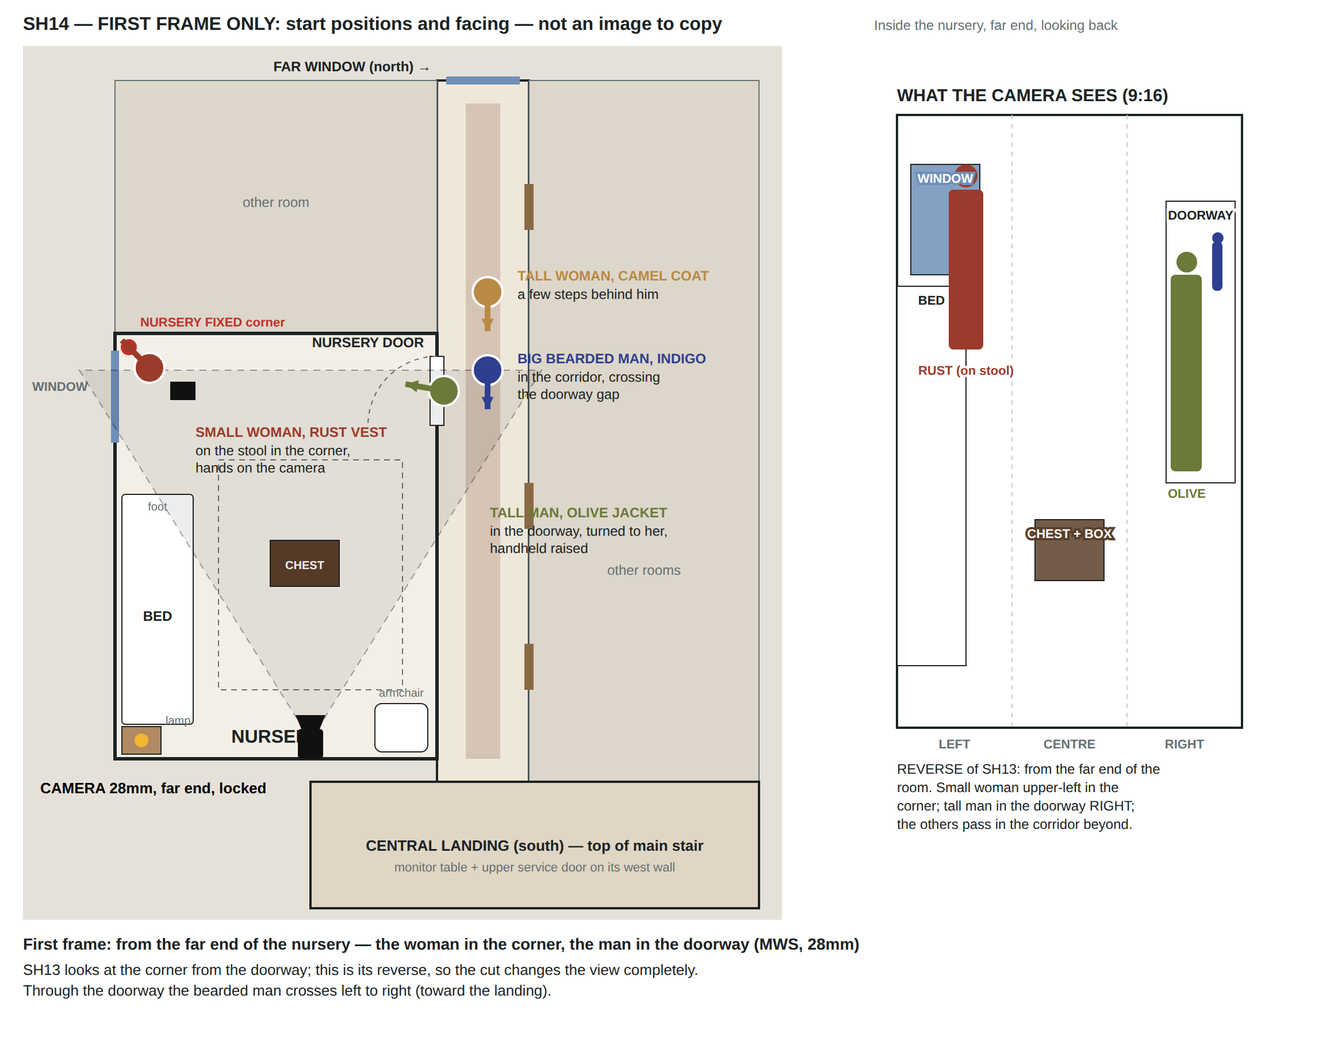
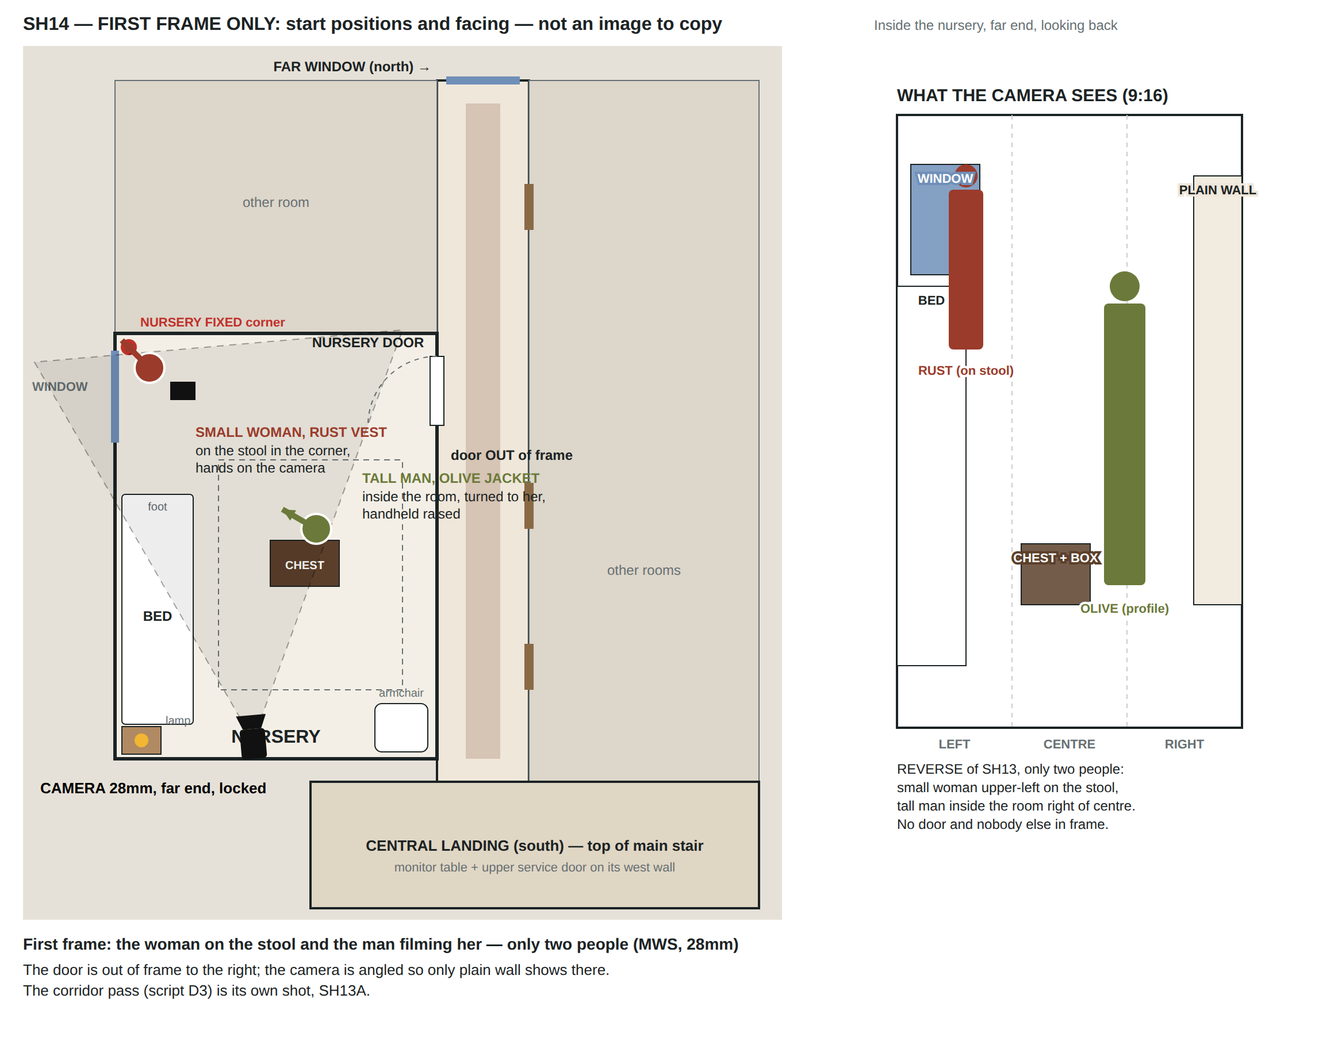
Split SH14: corridor pass becomes SH13A, SH14 keeps two people, no door
The image model could not stage four people plus a doorway on the right
wall. It invented its own door frame on the wrong wall, with the
passers-by standing in it.

- New SH13A (script D3): the approved reverse corridor view, the bearded
  man walking past the open door with the bell-board camera and pouch,
  the woman with locs behind him, nobody in the doorway.
- SH14 (D4–D5): only the small woman on the stool and the tall man
  inside the room. The camera is angled so the door stays out of frame,
  and a stay line forbids any door or other person.
- The test scope is now by shot number (SH01–SH20 including lettered
  inserts), not array position.
- Maps: new SH13A; SH14 redrawn; corridor location map and sheet lists
  updated.

Claude-Session: https://claude.ai/code/session_01MJ23cbnzmfztqsRaFx1Dvm

diff --git a/src/data/shots.ts b/src/data/shots.ts
@@ -153,8 +153,13 @@ export const q = (beatId: string) => {
 const sheet = (id: CharId, job = 'identity: face, hair, build and full wardrobe'): Upload => ({ file: CHARACTERS[id].sheetFile, job });
 const bg = (id: CharId) => sheet(id, 'identity of a smaller background figure');
 const up = (file: string, job: string): Upload => ({ file, job });
+/** Shot number without any letter suffix: 'SH13A' → 13. */
+export const shotNum = (id: string) => parseInt(id.slice(2), 10);
+/** The test scope: SH01–SH20, including inserted lettered shots such as SH13A. */
+export const inTestScope = (id: string) => shotNum(id) <= 20;
+
 const mapUp = (id: string): Upload =>
-  Number(id.slice(2)) >= 8
+  shotNum(id) >= 8
     ? up(`MAP_${id}.png`, 'FIRST FRAME ONLY: where the camera stands and looks, where each person stands at this exact moment and which way they face, and where things land in the frame. It shows no movement. It is a diagram — do NOT draw it, no arrows, circles or labels in the image')
     : up(`MAP_${id}.png`, 'BLOCKING ONLY: where the camera stands and looks, where each person stands, which way they face and move, and where things land in the frame. It is a diagram — do NOT draw it, no arrows, circles or labels in the image');
 const LINEUP_BG = up('CH_LINEUP.png', 'identities of the small background figures and everyone’s relative heights');
@@ -759,10 +764,50 @@ export const SHOTS: Shot[] = [
     note: 'Operator is established in SH12 (Elias follows her in raising the handheld).',
   },
   {
+    id: 'SH13A',
+    section: 'D',
+    covers: ['D3'],
+    title: 'Corridor: Owen walks past the open nursery door with BELL BOARD FIXED and his pouch; Naomi crosses behind him with her recorder.',
+    cam: 'cinematic',
+    location: 'LOC_CORRIDOR_REV_DAY.png',
+    time: 'day',
+    lens: '35mm',
+    size: 'MWS',
+    setup: 'COR-REV2 past the door, looking back to the landing',
+    heading: 180,
+    blocking:
+      'Plate framing (the approved reverse corridor view): camera in the corridor a few metres past the nursery door, looking back toward the landing; the open nursery door on the RIGHT wall ahead. The huge bearded man walks AWAY from the camera down the middle of the corridor, just reaching the open door on his right, framed from the knees up, his back to us. A few steps behind him, nearer the camera and to the left, the very tall woman with locs walks the same way, looking down at the recorder in her hands. Nobody is in the doorway; the room beyond it is not visible from here.',
+    states: [{ thing: 'nurseryDoor', start: 'ALREADY WIDE OPEN' }, { thing: 'bellCam', start: 'IN HIS RIGHT HAND', between: 'the bearded man took it out of his case at the far end of the corridor' }],
+    people: [
+      { id: 'owen', view: 'back', where: 'centre of the corridor, midground, just reaching the open door on the right wall, walking away from the camera', doing: 'walking steadily toward the landing, not turning his head', hands: 'compact black camera in his right hand, held out slightly so it shows beside his right hip; canvas tool pouch in his left hand, visible' },
+      { id: 'naomi', view: 'back34', where: 'a few steps behind him, nearer the camera, left of centre', doing: 'walking the same way, head bowed to her recorder', hands: 'silver cassette recorder held in both hands in front of her, its edge visible beside her body' },
+    ],
+    check: ['Same corridor view as the approved reverse plate: open door on the RIGHT wall, landing at the far end', 'Both walk AWAY from the camera; nobody stands in the doorway', 'His compact camera and pouch are visible from behind'],
+    map: '/maps/SH13A_map.png',
+    kf: {
+      mode: 'generate',
+      uploads: [up('LOC_CORRIDOR_REV_DAY.png', 'the corridor, the open nursery door on the right and the light — keep exactly'), sheet('owen'), sheet('naomi'), mapUp('SH13A')],
+      frame: 'Working, unhurried, nobody posing.',
+      saveAs: 'KF_SH13A.png',
+    },
+    video: {
+      camera: 'Static camera.',
+      setting: 'Bright upper corridor, daytime.',
+      beats: [
+        { t: [0, 3], text: `${Cap('owen')} walks on past the open nursery door toward the landing without turning his head; ${D('naomi')} crosses the corridor behind him, eyes on her recorder.` },
+      ],
+      stays: [STAY_PEOPLE, STAY_CORRIDOR, 'Nobody enters or stands in the doorway.'],
+    },
+    order: 3,
+    edit: 2,
+    sound: 'off',
+    audio: 'Footsteps on the runner, a soft recorder click.',
+  },
+  {
     id: 'SH14',
     section: 'D',
-    covers: ['D3', 'D4', 'D5'],
-    title: 'Reverse from inside the nursery: Owen passes the doorway with BELL BOARD FIXED and his pouch, Naomi behind. ELIAS: “Very polite house so far.” MARA: “You’ve been here twenty minutes.”',
+    covers: ['D4', 'D5'],
+    title: 'Inside the nursery: ELIAS: “Very polite house so far.” MARA: “You’ve been here twenty minutes.”',
     cam: 'tripod',
     location: 'LOC_NURSERY_FIXED_DAY.png',
     time: 'day',
@@ -771,34 +816,31 @@ export const SHOTS: Shot[] = [
     setup: 'NUR-FAR far end of the nursery, looking back',
     heading: 0,
     blocking:
-      'The REVERSE of SH13, from inside the nursery: camera at eye level at the far end of the room, looking back toward the window corner and the door. The white iron bed runs along the LEFT wall toward the window at its far end; high in the corner above the window, upper left, the small woman in rust on a step stool tightening the compact camera onto its bracket, the black monitor case on the floor below her. The open white door is in the RIGHT-hand wall near the far end; the tall man in olive stands in the doorway, turned toward her, his handheld raised on her. Through the doorway behind him, the corridor: the huge bearded man passing across the gap, a few steps behind him the very tall woman with locs. The chest with the grey box on the rug in the middle of the room.',
-    states: [{ thing: 'nurseryDoor', start: 'ALREADY WIDE OPEN' }, { thing: 'nurseryCam', start: 'ON ITS WALL BRACKET, BEING TIGHTENED' }, { thing: 'monitorCase', start: 'ON THE FLOOR BESIDE THE STOOL' }, { thing: 'bellCam', start: 'IN HIS RIGHT HAND', between: 'the bearded man took it out of his case at the far end of the corridor' }],
+      'The REVERSE of SH13, from inside the nursery: camera at eye level at the far end of the room, looking back toward the window corner. Only two people. The white iron bed runs along the LEFT wall toward the window at its far end; high in the corner above the window, upper left, the small woman in rust on a step stool tightening the compact camera onto its bracket, the black monitor case on the floor below her. The tall man in olive stands INSIDE the room, right of centre on the bare floor beside the rug, turned toward her, his handheld raised on her. The chest with the grey box on the rug in the middle. The right edge of the frame is plain wallpaper: no door, no doorway and nobody else in the frame.',
+    states: [{ thing: 'nurseryCam', start: 'ON ITS WALL BRACKET, BEING TIGHTENED' }, { thing: 'monitorCase', start: 'ON THE FLOOR BESIDE THE STOOL' }],
     people: [
       { id: 'mara', view: 'back34', where: 'upper left, on the step stool in the corner above the window', doing: 'arms up, still tightening the compact camera on its bracket', hands: 'both hands on the camera on its bracket, clearly visible' },
-      { id: 'elias', view: 'profileL', where: 'in the open doorway in the right-hand wall, midground', doing: 'turned toward the corner, watching her work', hands: 'handheld camera raised in both hands toward her, visible in profile' },
-      { id: 'owen', view: 'small', where: 'through the doorway, in the corridor behind the tall man, crossing the gap from left to right', doing: 'walking past, eyes ahead down the corridor', hands: 'compact black camera in his right hand, canvas tool pouch in his left' },
-      { id: 'naomi', view: 'small', where: 'through the doorway, in the corridor a few steps behind him', doing: 'walking, looking down at her recorder', hands: 'silver cassette recorder in both hands' },
+      { id: 'elias', view: 'profileL', where: 'inside the room, right of centre, on the bare floor beside the rug, full figure', doing: 'turned toward the corner, watching her work, a small fond grin', hands: 'handheld camera raised in both hands toward her, visible in profile' },
     ],
-    check: ['Reverse of SH13: from the far end of the room looking back at the corner and the door', 'Small woman upper-left on the stool in the corner; bed along the LEFT wall', 'Tall man in the doorway in the RIGHT-hand wall, turned toward her', 'The bearded man and the woman with locs small in the corridor through the doorway'],
+    check: ['Reverse of SH13: from the far end of the room looking back at the window corner', 'ONLY two people: the small woman on the stool upper-left, the tall man inside the room right of centre', 'No door, no doorway, nobody else in the frame', 'Bed along the LEFT wall; chest with the grey box in the middle'],
     map: '/maps/SH14_map.png',
     kf: {
       mode: 'generate',
-      uploads: [up('LOCSHEET_NUR.png', 'the TOP-RIGHT panel (day, view B) is this room from exactly this end — keep the room'), sheet('elias'), sheet('mara'), up('CH_LINEUP.png', 'identities of the bearded man and the woman with locs seen small through the doorway, and everyone’s heights'), mapUp('SH14')],
-      frame: 'Relaxed crew banter while everyone keeps working.',
+      uploads: [up('LOCSHEET_NUR.png', 'the TOP-RIGHT panel (day, view B) is this room from exactly this end — keep the room'), sheet('elias'), sheet('mara'), mapUp('SH14')],
+      frame: 'Relaxed crew banter while both keep working.',
       saveAs: 'KF_SH14.png',
     },
     video: {
       camera: 'Locked tripod inside the nursery.',
-      setting: 'Sunlit nursery, looking back toward the window corner and the open door.',
+      setting: 'Sunlit nursery, looking back toward the window corner.',
       beats: [
-        { t: [0, 2], text: `Through the doorway ${D('owen')} walks past across the gap from left to right with the compact camera and tool pouch, not turning his head; ${D('naomi')} follows a few steps behind, checking her recorder.` },
-        { t: [2, 4], text: `In the doorway ${D('elias')}, watching the woman in the corner work, says lightly and fondly in ${V('elias')}: ${q('D4')}` },
-        { t: [4, 7], text: `Up in the corner, without looking down and still tightening the same mount, ${D('mara')} answers dryly in ${V('mara')}: ${q('D5')}` },
+        { t: [0, 2], text: `${Cap('elias')}, watching the woman in the corner work, says lightly and fondly in ${V('elias')}: ${q('D4')}` },
+        { t: [2, 5], text: `Up in the corner, without looking down and still tightening the same mount, ${D('mara')} answers dryly in ${V('mara')}: ${q('D5')}` },
       ],
-      stays: [STAY_PEOPLE, 'The bearded man never turns his head; nobody stops working.'],
+      stays: [STAY_PEOPLE, 'Only these two people are ever in the room; no door or doorway comes into view.'],
     },
-    order: 7,
-    edit: 3.5,
+    order: 5,
+    edit: 3,
     sound: 'native',
     audio: 'Elias and Mara lines, native then voice-swapped.',
   },

diff --git a/src/lib/qa.ts b/src/lib/qa.ts
@@ -4,7 +4,7 @@
 import { ALL_BEATS, BEAT_BY_ID, BEAT_INDEX, SCRIPT } from '../data/script';
 import { ASSETS } from '../data/assets';
 import { CHARACTERS, NAMES } from '../data/characters';
-import { SHOTS, THINGS, visibleOf, type Shot, type Thing } from '../data/shots';
+import { SHOTS, THINGS, inTestScope, visibleOf, type Shot, type Thing } from '../data/shots';
 import { keyframePrompt, producedFiles, refFor, videoPrompt, womanPrompt } from './prompts';
 
 export type Severity = 'error' | 'warn' | 'info';
@@ -222,7 +222,7 @@ export function runQA(): Finding[] {
     if (!prev || s.matchCut) return;
     if (setupKey(prev.setup) === setupKey(s.setup) && prev.size === s.size) {
       // Test scope is SH01–SH20; later shots are flagged for rework but do not block the build yet.
-      add(i < 20 ? 'error' : 'warn', 'Coverage', `Same setup (${setupKey(s.setup)}) and size (${s.size}) as ${prev.id} — the cut will jump. Change the size or the angle.`, s.id);
+      add(inTestScope(s.id) ? 'error' : 'warn', 'Coverage', `Same setup (${setupKey(s.setup)}) and size (${s.size}) as ${prev.id} — the cut will jump. Change the size or the angle.`, s.id);
     }
     const prev2 = SHOTS[i - 2];
     if (prev2 && prev2.size === prev.size && prev.size === s.size) add('warn', 'Coverage', `Third ${s.size} in a row (${prev2.id}, ${prev.id}, ${s.id})`, s.id);
@@ -236,7 +236,7 @@ export function runQA(): Finding[] {
     if (setupKey(s.setup).split('-')[0] !== setupKey(prev.setup).split('-')[0]) return;
     const d = Math.abs(((s.heading - prev.heading + 540) % 360) - 180);
     if (d < 30)
-      add(i < 20 ? 'error' : 'warn', 'Coverage', `Same view as ${prev.id}: the camera faces the same way (${prev.heading}° → ${s.heading}°) in the same place. Turn it 30°+, put a cutaway between, or make it one continuous shot.`, s.id);
+      add(inTestScope(s.id) ? 'error' : 'warn', 'Coverage', `Same view as ${prev.id}: the camera faces the same way (${prev.heading}° → ${s.heading}°) in the same place. Turn it 30°+, put a cutaway between, or make it one continuous shot.`, s.id);
   });
 
   // 16c. Establish every new location: one of its first two shots must be wide enough to show
@@ -251,7 +251,7 @@ export function runQA(): Finding[] {
   for (const [loc, list] of seenLoc) {
     const first = list.slice(0, 2);
     if (!first.some((s) => ['EWS', 'WS', 'MWS'].includes(s.size))) {
-      const inScope = SHOTS.indexOf(first[0]) < 20;
+      const inScope = inTestScope(first[0].id);
       add(inScope ? 'error' : 'warn', 'Coverage', `Location ${loc} is never established: its first shots (${first.map((s) => `${s.id} ${s.size}`).join(', ')}) are all close. Make one of them WS/MWS.`, first[0].id);
     }
   }
@@ -270,10 +270,10 @@ export function runQA(): Finding[] {
   }
 
   // 16e. Test scope (SH01–SH20): flag uploads that are keyframes of later shots, so they get built first.
-  SHOTS.slice(0, 20).forEach((s) => {
+  SHOTS.filter((x) => inTestScope(x.id)).forEach((s) => {
     const later = s.kf.uploads.map((u) => u.file).filter((f) => {
-      const m = /^KF_(SH\d+)/.exec(f);
-      return m && SHOTS.findIndex((x) => x.id === m[1]) >= 20;
+      const m = /^KF_(SH\d+[A-Z]?)/.exec(f);
+      return m && !inTestScope(m[1]);
     });
     if (later.length) add('warn', 'Build order', `Needs later-shot images first: ${later.join(', ')} (see Build order).`, s.id);
   });

diff --git a/src/data/notes.ts b/src/data/notes.ts
@@ -9,6 +9,11 @@ export interface Note {
 
 export const OLD_PACK_PROBLEMS: Note[] = [
   {
+    title: 'SH14 had too much for one image: four people plus a doorway',
+    body: 'The reverse from inside the nursery asked for the woman on the stool, the man in the doorway and two people passing in the corridor beyond. The image model put the passers-by in a door frame of its own, on the wrong wall.',
+    fix: 'The corridor pass (script D3) is now its own short shot, SH13A: the approved reverse corridor view, the bearded man walking past the open door, the woman with locs behind him, nobody in the doorway. SH14 keeps only D4–D5 with two people, the small woman on the stool and the tall man inside the room, angled so the door stays out of frame. SH13A is lettered, as inserted shots are on set, so nothing after it is renumbered.',
+  },
+  {
     title: 'Consecutive shots repeated the same view',
     body: 'The coverage check compared camera positions and shot sizes but not the direction the camera faces. So SH10 → SH11 (medium then close-up, both straight down the corridor), SH06 → SH07 (both looking at the front door) and SH13 → SH14 (both looking through the doorway at the corner) passed, although each cut showed the same view again.',
     fix: 'Every shot now has a compass heading, and QA fails when consecutive shots in one place face within 30° of each other. SH07 now looks up the stair behind the host (SH06 looks back at the front door). SH11 is a three-quarter single 45° off the corridor axis, with the taller woman soft in the foreground. SH14 is the true reverse of SH13, from the far end of the nursery. SH16 moved to the corridor, square to the doorway, so it does not repeat SH14. Maps and location maps are redrawn to match.',

diff --git a/src/App.tsx b/src/App.tsx
@@ -2,7 +2,7 @@ import { useEffect, useMemo, useState } from 'react';
 import { ALL_BEATS, SCRIPT, SCRIPT_META } from './data/script';
 import { CHARACTERS, CAST, type CharId } from './data/characters';
 import { ASSETS, LOCATION_SHEETS, MAPS } from './data/assets';
-import { SHOTS, compass } from './data/shots';
+import { SHOTS, compass, inTestScope } from './data/shots';
 import { DECISIONS, OLD_PACK_PROBLEMS, PROCESS_NOTE } from './data/notes';
 import { runQA, fmtTime, type Finding } from './lib/qa';
 import { buildOrder, exportMarkdown, linesLost, timeline } from './lib/build';
@@ -102,7 +102,7 @@ export default function App() {
 
 /** Quick visual check: location maps and every shot map, one full-width row each, in cut order. */
 function ShotMaps({ findings }: { findings: Finding[] }) {
-  const scope = SHOTS.slice(0, 20);
+  const scope = SHOTS.filter((s) => inTestScope(s.id));
   const coverage = findings.filter((f) => f.rule === 'Coverage' && scope.some((s) => s.id === f.shot));
   const [view, setView] = useStored<'shots' | 'locations'>('maps-view', 'shots');
   return (

diff --git a/src/data/assets.ts b/src/data/assets.ts
@@ -182,7 +182,7 @@ export const LOCATION_SHEETS: LocationSheet[] = [
     layout: MAPS.corridor.text,
     look: LOOKS.dayInterior,
     shotsA: ['SH12', 'SH15'],
-    shotsB: ['SH08', 'SH10'],
+    shotsB: ['SH08', 'SH10', 'SH13A'],
     shotsSide: ['SH09', 'SH11', 'SH16'],
   },
   {
@@ -650,7 +650,7 @@ export const ASSETS: Asset[] = [
   ...sheetAssets,
 
   // --- Shot maps (top-down plans, uploaded as blocking references) -------
-  ...['02', '03', '04', '05', '06', '07', '08', '09', '10', '11', '12', '13', '14', '15', '16', '17', '18', '19', '20'].map(
+  ...['02', '03', '04', '05', '06', '07', '08', '09', '10', '11', '12', '13', '13A', '14', '15', '16', '17', '18', '19', '20'].map(
     (n): Asset => ({
       file: `MAP_SH${n}.png`,
       kind: 'map',

diff --git a/scripts/shot_maps.py b/scripts/shot_maps.py
@@ -460,27 +460,41 @@ maps['SH13'] = svg('SH13', 'First frame: the small woman on the stool in the cor
                    ['This corner is the NURSERY FIXED position seen in the approved high-corner plate.',
                     'The camera’s tiny preview screen faces us (replaced in post).'])
 
+# ---------------- SH13A ----------------
+plan = upper_plan()
+plan += camera(400, 140, 90, 44, 560, 'CAMERA 35mm, a few m past the door', None, ldx=30, ldy=-6)
+plan += person('owen', 402, 300, 90, note=['back to camera, just reaching', 'the open door; camera + pouch'], label_dx=40, label_dy=30)
+plan += person('naomi', 386, 232, 90, note=['behind him, nearer camera,', 'eyes on her recorder'], label_dx=-270, label_dy=-70)
+frame = frame_panel(760, 60, [
+    ('box', 0.4, 0.2, 0.2, 0.2, 'LANDING (far end)', '#efe7da'),
+    ('box', 0.8, 0.08, 0.2, 0.8, 'OPEN DOOR (empty)', '#ffffff'),
+    ('fig', 0.52, 0.3, 0.1, 0.42, 'BEARDED (back)', COL['owen']),
+    ('fig', 0.32, 0.34, 0.16, 0.6, 'CAMEL (back 3/4)', COL['naomi'], -240),
+], ['FIRST FRAME: the approved reverse corridor', 'view. Both walk AWAY toward the landing;', 'he is just reaching the open door on the', 'RIGHT. Nobody in the doorway.'])
+maps['SH13A'] = svg('SH13A', 'First frame: the bearded man reaching the open door, the woman with locs behind him (MWS, 35mm)',
+                    'Corridor, looking back to the landing', plan, frame,
+                    ['Script D3 on its own, before the banter inside the room (SH14).',
+                     'Same direction as SH08 but not consecutive with it; the room is not visible from here.'])
+
 # ---------------- SH14 ----------------
 plan = upper_plan()
-plan += camera(250, 604, -90, 64, 380, 'CAMERA 28mm, far end, locked', None, ldx=-235, ldy=46)
+plan += camera(200, 604, -95, 50, 380, 'CAMERA 28mm, far end, locked', None, ldx=-185, ldy=46)
 plan += person('mara', 110, 280, -135, note=['on the stool in the corner,', 'hands on the camera'], label_dx=40, label_dy=60)
 plan.append('<rect x="128" y="292" width="22" height="16" fill="#111"/>')
-plan += person('elias', 366, 300, 190, note=['in the doorway, turned to her,', 'handheld raised'], label_dx=40, label_dy=110)
-plan += person('owen', 404, 282, 90, note=['in the corridor, crossing', 'the doorway gap'], label_dx=26, label_dy=-6)
-plan += person('naomi', 404, 214, 90, note=['a few steps behind him'], label_dx=26, label_dy=-10)
+plan += person('elias', 255, 420, -150, note=['inside the room, turned to her,', 'handheld raised'], label_dx=40, label_dy=-40)
+plan.append(text(372, 360, 'door OUT of frame', 12, INK, 'start', 700))
 frame = frame_panel(760, 60, [
     ('box', 0.0, 0.28, 0.2, 0.62, 'BED', '#ffffff'),
     ('box', 0.04, 0.08, 0.2, 0.18, 'WINDOW', '#6f8fb8'),
-    ('box', 0.4, 0.66, 0.2, 0.1, 'CHEST + BOX', '#5b3f2a'),
-    ('box', 0.78, 0.14, 0.2, 0.46, 'DOORWAY', '#ffffff'),
-    ('fig', 0.93, 0.2, 0.03, 0.08, '', COL['owen']),
-    ('fig', 0.84, 0.24, 0.09, 0.32, 'OLIVE', COL['elias'], 10),
+    ('box', 0.36, 0.7, 0.2, 0.1, 'CHEST + BOX', '#5b3f2a'),
+    ('box', 0.86, 0.1, 0.14, 0.7, 'PLAIN WALL', '#efe7da'),
+    ('fig', 0.66, 0.28, 0.12, 0.46, 'OLIVE (profile)', COL['elias'], 10),
     ('fig', 0.2, 0.1, 0.1, 0.26, 'RUST (on stool)', COL['mara'], 8),
-], ['REVERSE of SH13: from the far end of the', 'room. Small woman upper-left in the', 'corner; tall man in the doorway RIGHT;', 'the others pass in the corridor beyond.'])
-maps['SH14'] = svg('SH14', 'First frame: from the far end of the nursery — the woman in the corner, the man in the doorway (MWS, 28mm)',
+], ['REVERSE of SH13, only two people:', 'small woman upper-left on the stool,', 'tall man inside the room right of centre.', 'No door and nobody else in frame.'])
+maps['SH14'] = svg('SH14', 'First frame: the woman on the stool and the man filming her — only two people (MWS, 28mm)',
                    'Inside the nursery, far end, looking back', plan, frame,
-                   ['SH13 looks at the corner from the doorway; this is its reverse, so the cut changes the view completely.',
-                    'Through the doorway the bearded man crosses left to right (toward the landing).'])
+                   ['The door is out of frame to the right; the camera is angled so only plain wall shows there.',
+                    'The corridor pass (script D3) is its own shot, SH13A.'])
 
 # ---------------- SH15 ----------------
 plan = upper_plan()
@@ -730,13 +744,13 @@ plan += view(400, 632, -90, 36, 610, 'VIEW A — landing end → far window', VI
 plan += view(400, 44, 90, 36, 600, 'VIEW B — far window → landing', VIEW_B, 30, 4)
 plan += practical(432, 480, 'night: sconce (east wall)')
 plan += practical(265, 690, 'night: landing lamp', 'end', -12, 4)
-plan += setup_marks(['SH12', 'SH15'], VIEW_A) + setup_marks(['SH08', 'SH10'], VIEW_B) + setup_marks(['SH09', 'SH11', 'SH16'], SIDE)
+plan += setup_marks(['SH12', 'SH15'], VIEW_A) + setup_marks(['SH08', 'SH10', 'SH13A'], VIEW_B) + setup_marks(['SH09', 'SH11', 'SH16'], SIDE)
 panel = sheet_panel(760, 60, [
     ('DAY · VIEW A', ['far window ahead', 'nursery door open', 'on the LEFT wall', '2/3 of the way'], DAY, INK),
     ('DAY · VIEW B', ['landing at the end', 'nursery door open', 'on the RIGHT wall,', '~3 m from camera'], DAYB, INK),
     ('NIGHT · VIEW A', ['same framing', 'window black-blue', 'sconce on RIGHT wall', 'lamp spill from door'], NIGHT, '#f3ead8'),
     ('NIGHT · VIEW B', ['same framing', 'sconce on LEFT wall', 'landing lamp glows', 'at the far end'], NIGHT, '#f3ead8'),
-], ['View A: SH12 (WS), SH15 (MS).', 'View B: SH08 (WS), SH10 (MS).', 'Side (grey): SH09, SH11 (diagonal), SH16.'])
+], ['View A: SH12 (WS), SH15 (MS).', 'View B: SH08 (WS), SH10 (MS), SH13A (MWS).', 'Side (grey): SH09, SH11 (diagonal), SH16.'])
 locmaps['LOC_COR'] = loc_svg('UPPER CORRIDOR', 'Upper corridor', 'Landing end and far-window end', plan, panel,
                              ['Nursery door: LEFT wall in view A, RIGHT wall in view B. The sconce is on the east wall: RIGHT in A, LEFT in B.',
                               'The nursery door stays open in all four panels; its state per shot is set in the shot prompt.'])
